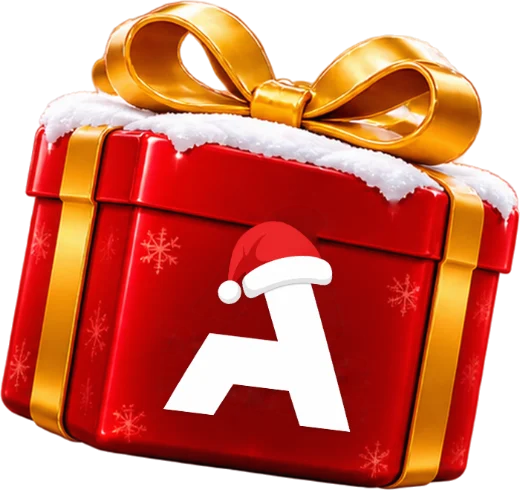
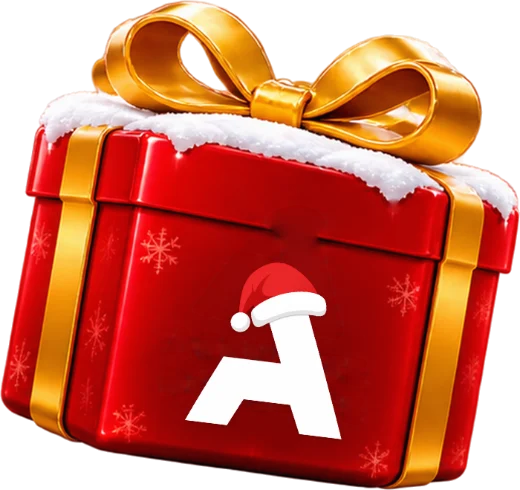
Christmas giveaway: Eddie's feedback round
- Billing page shows free Pro from the giveaway (Pro plan, Free gift, until
  date or for life) instead of "not subscribed".
- Claim screen explains stacked Pro: "1 month was added to the Pulse Pro you
  already had, so it is now active until ...".
- Black header on every giveaway page.
- AR gift box: logo smaller and fully on the front, below the lid.
- What is Pulse: "a safer alternative to Telegram and Teams".
- See how Pulse works opens in light mode (?theme=light on marketing pages,
  for that visit only).

Changed region(s): [[0.3077, 0.4286, 0.6769, 0.9184]]

diff --git a/frontend/src/components/settings/BillingSection.jsx b/frontend/src/components/settings/BillingSection.jsx
@@ -91,6 +91,10 @@ export default function BillingSection({ darkMode }) {
   // payment never went through, and a null plan means the account was only ever
   // KYC-verified (which also flips status to 'active') — both are still Free.
   const isPaid = Boolean(billing?.plan) && (billing?.status === 'active' || billing?.status === 'past_due')
+  // Free Pro from the Christmas giveaway: not a paid plan, but Pro all the same until it ends.
+  const giftEnd = billing?.proEndsAt && new Date(billing.proEndsAt) > new Date() ? new Date(billing.proEndsAt) : null
+  const giftLifetime = giftEnd && giftEnd.getUTCFullYear() >= 9999
+  const giftOnly = Boolean(giftEnd) && !isPaid
   const showBadge = isPaid || billing?.status === 'cancelled'
   const status = STATUS_STYLE[billing?.status] || STATUS_STYLE.inactive
   const planLabel = isPaid && billing?.plan
@@ -111,7 +115,10 @@ export default function BillingSection({ darkMode }) {
         <div className="flex items-start justify-between gap-3 flex-wrap">
           <div>
             <div className="flex items-center gap-2 flex-wrap">
-              <h3 className={`text-base font-bold ${dm ? 'text-white' : 'text-gray-900'}`}>{planLabel} Plan</h3>
+              <h3 className={`text-base font-bold ${dm ? 'text-white' : 'text-gray-900'}`}>{giftOnly ? 'Pro' : planLabel} Plan</h3>
+              {giftEnd && (
+                <span className="text-xs font-semibold rounded-full px-2.5 py-0.5 bg-amber-100 text-amber-700">🎄 Free gift</span>
+              )}
               {showBadge && (
                 <span className={`text-xs font-semibold rounded-full px-2.5 py-0.5 ${status.bg}`}>{status.label}</span>
               )}
@@ -122,17 +129,23 @@ export default function BillingSection({ darkMode }) {
                 {billing.cancelAtPeriodEnd ? 'Cancels on' : 'Renews on'} {renewalDate}
               </p>
             )}
-            {!isPaid && (
+            {giftEnd && (
+              <p className={`text-sm mt-1 ${sub}`}>
+                Free Pulse Pro from the Christmas giveaway, {giftLifetime ? 'for life' : `until ${giftEnd.toLocaleDateString('en-US', { year: 'numeric', month: 'long', day: 'numeric' })}`}.
+                {giftOnly && !giftLifetime && ' Nothing to pay. You can upgrade when it ends to keep Pro.'}
+              </p>
+            )}
+            {!isPaid && !giftEnd && (
               <p className={`text-sm mt-1 ${sub}`}>You're not currently subscribed to a paid plan.</p>
             )}
           </div>
           <div className="flex flex-col items-end gap-2 shrink-0">
-            <button
+            {!giftLifetime && <button
               onClick={() => setShowUpgrade(true)}
               className="text-xs font-semibold text-white bg-violet-600 hover:bg-violet-700 rounded-xl px-4 py-2 transition-colors"
             >
               {isPaid ? 'Manage Plan' : 'Upgrade'}
-            </button>
+            </button>}
             {isPaid && (
               <button
                 onClick={billing.cancelAtPeriodEnd ? handleResumePlan : handleCancelPlan}

diff --git a/frontend/src/features/giveaway/ClaimPrizePage.jsx b/frontend/src/features/giveaway/ClaimPrizePage.jsx
@@ -18,8 +18,11 @@ const CODE_RE = /^XMAS-[A-Z0-9]{4}-[A-Z0-9]{4}$/
 
 const formatDate = (d) => new Date(d).toLocaleDateString('en-GB', { day: 'numeric', month: 'long', year: 'numeric', timeZone: 'UTC' })
 
-function proLine(prize, proEndsAt) {
+function proLine(prize, proEndsAt, stacked) {
   if (prize.proLifetime) return 'Your Pulse Pro is active for life.'
+  if (prize.proMonths && proEndsAt && stacked) {
+    return `${prize.proMonths} ${prize.proMonths === 1 ? 'month was' : 'months were'} added to the Pulse Pro you already had, so it is now active until ${formatDate(proEndsAt)}.`
+  }
   if (prize.proMonths && proEndsAt) return `Your Pulse Pro is active until ${formatDate(proEndsAt)}.`
   return null
 }
@@ -106,7 +109,7 @@ export default function ClaimPrizePage() {
   } else if (!preview || authLoading) {
     body = <div className="mx-auto h-8 w-8 animate-spin rounded-full border-4 border-amber-300 border-t-transparent" />
   } else if (done) {
-    const line = proLine(done.prize, done.proEndsAt)
+    const line = proLine(done.prize, done.proEndsAt, done.proStacked)
     body = (
       <div className="text-center xmas-pop">
         <PrizeGift prizeKey={done.prize.key} className="xmas-float mx-auto w-44" />

diff --git a/frontend/src/features/giveaway/GiveawayPage.jsx b/frontend/src/features/giveaway/GiveawayPage.jsx
@@ -161,7 +161,7 @@ function WhatIsPulse() {
         <img src={PULSE_LOGO} alt="" className="h-8 shrink-0" />
         <div className="sm:ml-2 sm:border-l sm:border-amber-300/30 sm:pl-5">
           <h2 id="xmas-pulse" className="text-2xl font-extrabold"><span className="xmas-gold-text">What is Pulse?</span></h2>
-          <p className="mt-1 text-white/85">Pulse is a messaging app built for the iGaming industry, where every member is ID verified.</p>
+          <p className="mt-1 text-white/85">Pulse is a safer alternative to Telegram and Teams: a messaging app built for the iGaming industry, where every member is ID verified.</p>
         </div>
       </div>
       <ul className="mt-6 grid gap-3 sm:grid-cols-3">
@@ -174,7 +174,7 @@ function WhatIsPulse() {
         ))}
       </ul>
       <div className="mt-6 text-center">
-        <Link to="/how-it-works" target="_blank" className="xmas-btn-outline px-6 py-2.5 text-sm">See how Pulse works</Link>
+        <Link to="/how-it-works?theme=light" target="_blank" className="xmas-btn-outline px-6 py-2.5 text-sm">See how Pulse works</Link>
       </div>
     </section>
   )

diff --git a/backend/src/services/giveawayClaim.service.js b/backend/src/services/giveawayClaim.service.js
@@ -69,6 +69,8 @@ export async function claimCode(user, rawCode, rawWallet, ipCountry) {
   const code = normalizeCode(rawCode)
   const client = await getClient()
   let win, prize, proEndsAt = null
+  // Free Pro time still left from before: a new Pro prize is added on top of it.
+  const proStacked = Boolean(user.pro_ends_at) && new Date(user.pro_ends_at) > new Date()
   try {
     await client.query('BEGIN')
     const { rows: [row] } = await client.query(
@@ -146,7 +148,7 @@ export async function claimCode(user, rawCode, rawWallet, ipCountry) {
 
   // The prize is claimed even if the chat cannot be opened; the host sees it in the admin panel.
   const conversationId = await openChatAndSave(user, win, proEndsAt)
-  return { alreadyClaimed: false, prize, proEndsAt, conversationId }
+  return { alreadyClaimed: false, prize, proEndsAt, proStacked: proStacked && !prize.proLifetime, conversationId }
 }
 
 async function openChatAndSave(user, win, proEndsAt) {

diff --git a/frontend/src/components/marketing/marketingHelpers.js b/frontend/src/components/marketing/marketingHelpers.js
@@ -60,10 +60,18 @@ function storedTheme() {
   return null
 }
 
+// A link can ask for a theme for this visit with ?theme=light or ?theme=dark (the Christmas
+// giveaway links here in light). It is not saved; the visitor's own toggle still wins after.
+function linkedTheme() {
+  if (typeof window === 'undefined') return null
+  const t = new URLSearchParams(window.location.search).get('theme')
+  return t === 'dark' ? true : t === 'light' ? false : null
+}
+
 // [dark, toggle]. With nothing saved, follows the device's light/dark setting — and keeps
 // following it if that changes — until the visitor picks one themselves.
 export function useMarketingTheme() {
-  const [chosen, setChosen] = useState(storedTheme)
+  const [chosen, setChosen] = useState(() => linkedTheme() ?? storedTheme())
   const [system, setSystem] = useState(
     () => typeof window !== 'undefined' && Boolean(window.matchMedia?.('(prefers-color-scheme: dark)').matches)
   )

diff --git a/frontend/src/features/giveaway/XmasDecor.jsx b/frontend/src/features/giveaway/XmasDecor.jsx
@@ -120,7 +120,7 @@ export function LogoLockup({ to = '/', label = 'Pulse home' }) {
 // The page header: logos, buttons on the right, pine branches in the corners, lights underneath.
 export function XmasHeader({ logoTo, logoLabel, right }) {
   return (
-    <header className="relative z-20 border-b border-amber-300/25">
+    <header className="relative z-20 border-b border-amber-300/40 bg-[#0b0708] shadow-[0_6px_24px_-8px_rgba(0,0,0,0.7)]">
       <PineCorners />
       <div className="relative z-10 mx-auto flex max-w-5xl items-center justify-between gap-3 px-4 py-3 sm:px-6 lg:px-4">
         <LogoLockup to={logoTo} label={logoLabel} />

diff --git a/backend/src/controllers/payment.controller.js b/backend/src/controllers/payment.controller.js
@@ -22,7 +22,8 @@ export async function createSubscriptionHandler(req, res, next) {
 export async function getBillingHandler(req, res, next) {
   try {
     const billing = await getBillingInfo(req.user.id)
-    res.json(billing)
+    // Free Pro (the Christmas giveaway) is not a Stripe plan, so say so separately.
+    res.json({ ...billing, proEndsAt: req.user.pro_ends_at || null })
   } catch (err) {
     next(err)
   }
